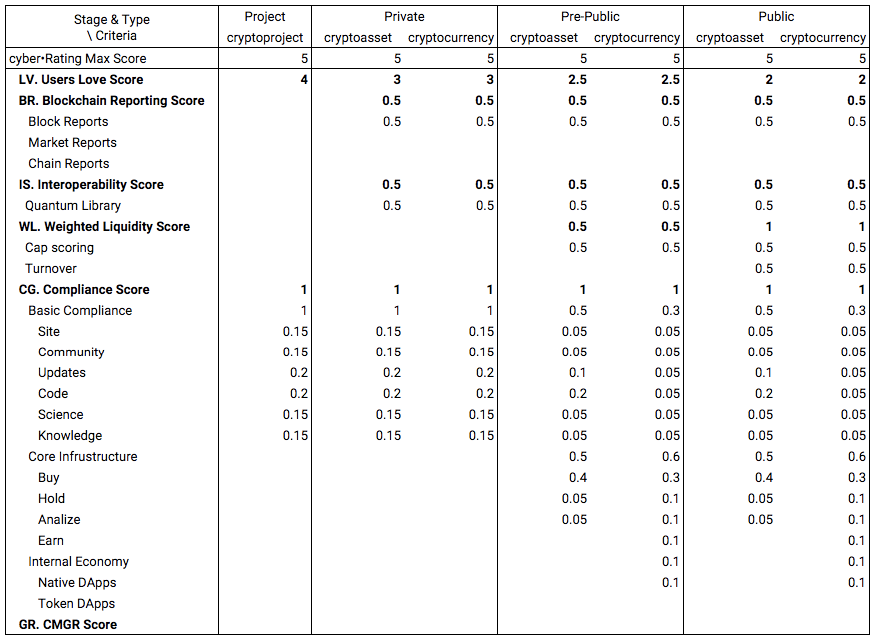
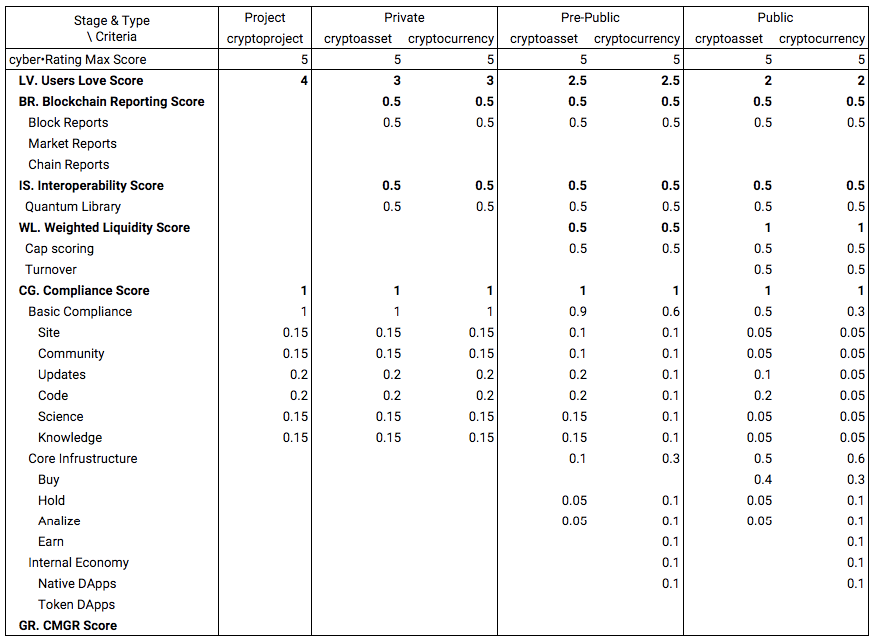
Update: scoring table and description

diff --git a/scoring.md b/scoring.md
@@ -11,47 +11,50 @@ Scores are awarded for the existence of links of the appropriate type in the [Ch
 *Site scoring*:
 
 Awarded for the existence of a official website or sites.
-- `0.15` score. For System at `Project`, `Private`, `Pre-Public` stage of development
-- `0.05` score. For System at `Public` stage of development
+- `0.15` score. For Systems at `Project`, `Private` stage of development
+- `0.10` score. For Systems at `Pre-Public` stage of development
+- `0.05` score. For Systems at `Public` stage of development
 
 *Community scoring*:
 
 Awarded for the existence of a Forum or Thread on specialized forum (like bitcointalk.org)
-- `0.20` score. For System at `Project`, `Private`, `Pre-Public` stage of development
-- `0.10` score. For `cryptoasset` at `Public` stage of development
-- `0.05` score. For `cryptocurrency` at `Public` stage of development
+- `0.15` score. For Systems at `Project`, `Private` stage of development
+- `0.10` score. For Systems at `Pre-Public` stage of development
+- `0.05` score. For Systems at `Public` stage of development
 
 *Updates scoring*:
 
 Awarded for the existence of regular updates about a project (RSS from the Blog / Reddit / tagged Media)
-- `0.20` score. For System at `Project`, `Private`, `Pre-Public` stage of development
-- `0.10` score. For `cryptoasset` at `Public` stage of development
+- `0.20` score. For all Systems at `Project`, `Private` stage of development and `cryptoasset` at `Pre-Public` stage
+- `0.10` score. For `cryptocurrency` at `Pre-Public` stage of development and `cryptoasset` at `Public` stage of development
 - `0.05` score. For `cryptocurrency` at `Public` stage of development
 
 *Code scoring*:
 
 Awarded for the existence of at least one repository on GitHub or BitBucket.
-- `0.20` score. For System at `Project`, `Private`, `Pre-Public` stage of development
-- `0.20` score. For `cryptoasset` at `Public` stage of development
+- `0.20` score. For `cryptoasset` at all stages of development
+- `0.10` score. For `cryptocurrency` at `Pre-Public` stage of development
 - `0.05` score. For `cryptocurrency` at `Public` stage of development
 
 *Science scoring*:
 
 Awarded for the existence of a whitepaper.
-- `0.15` score. For System at `Project`, `Private`, `Pre-Public` stage of development
-- `0.05` score. For System at `Public` stage of development
+- `0.15` score. For `cryptoasset` at `Project`, `Private`, `Pre-Public` stage of development
+- `0.10` score. For `cryptocurrency` at `Pre-Public` stage of development
+- `0.05` score. For all Systems at `Public` stage of development
 
 *Knowledge scoring*:
 
 Awarded for the existence of a communty generated knowledge (wiki).
-- `0.15` score. For System at `Project`, `Private`, `Pre-Public` stage of development
-- `0.05` score. For System at `Public` stage of development
+- `0.15` score. For `cryptoasset` at `Project`, `Private`, `Pre-Public` stage of development
+- `0.10` score. For `cryptocurrency` at `Pre-Public` stage of development
+- `0.05` score. For all Systems at `Public` stage of development
 
 *Buy/Sell ability scoring*:
 
 Awarded for presence on the stock exchanges.
-`cryptoassets` at `Public` stage of development:
 
+`cryptoassets` at `Public` stage of development:
 - `0.08` score. 1 exchange
 - `0.20` score. 2-5 exchanges
 - `0.32` score. 6-9 exchanges
@@ -66,37 +69,38 @@ Awarded for presence on the stock exchanges.
 *Hold scoring*:
 
 Awarded for ability to operate of tokens with a different wallets.
-`cryptoassets` at `Public` stage of development:
-- `0.02` score. 1 wallet
-- `0.05` score. 2-5 wallets
-- `0.08` score. 6-9 wallets
-- `0.10` score. 10+ wallets
 
-`cryptocurrencies` at `Public` stage of development:
+`cryptoassets` at `Pre-Public` and `Public` stages of development:
 - `0.01` score. 1 wallet
 - `0.025` score. 2-5 wallets
 - `0.04` score. 6-9 wallets
 - `0.05` score. 10+ wallets
 
+`cryptocurrencies` at `Pre-Public` and `Public` stages of development:
+- `0.02` score. 1 wallet
+- `0.05` score. 2-5 wallets
+- `0.08` score. 6-9 wallets
+- `0.10` score. 10+ wallets
+
 *Analyze scoring*:
 
 Awarded for the existence of a blockchain explorers.
-`cryptoassets` at `Public` stage of development:
 
-- `0.02` score. 1 block explorer
-- `0.05` score. 2-5 block explorers
-- `0.08` score. 6-9 block explorers
-- `0.10` score. 10+ block explorers
-
-`cryptocurrencies` at `Public` stage of development:
+`cryptoassets` at `Pre-Public` and `Public` stages of development:
 - `0.01` score. 1 block explorer
 - `0.025` score. 2-5 block explorers
 - `0.04` score. 6-9 block explorers
 - `0.05` score. 10+ block explorers
 
+`cryptocurrencies` at `Pre-Public` and `Public` stages of development:
+- `0.02` score. 1 block explorer
+- `0.05` score. 2-5 block explorers
+- `0.08` score. 6-9 block explorers
+- `0.10` score. 10+ block explorers
+
 *Earn scoring*:
 
-Awarded for presence at the mining pools or other sources which allows to earn tokens (score availible only for `cryptocurrencies` at `Public` stage of development).
+Awarded for presence at the mining pools or other sources which allows to earn tokens (score availible only for `cryptocurrencies` at `Pre-Public` and `Public` stages of development.
 - `0.02` score. 1 mining pool or other earning apps
 - `0.04` score. 2-5 mining pools or other earning apps
 - `0.08` score. 6-9 mining pools or other earning apps
@@ -109,7 +113,7 @@ Not relevant yet
 
 Awarded for the existence of a DApps builded on the top of a system  
 
-`cryptocurrencies`:
+`cryptocurrencies` at `Pre-Public` and `Public` stages of development:
 - `0.1` score
 
 `cryptoassets`:
